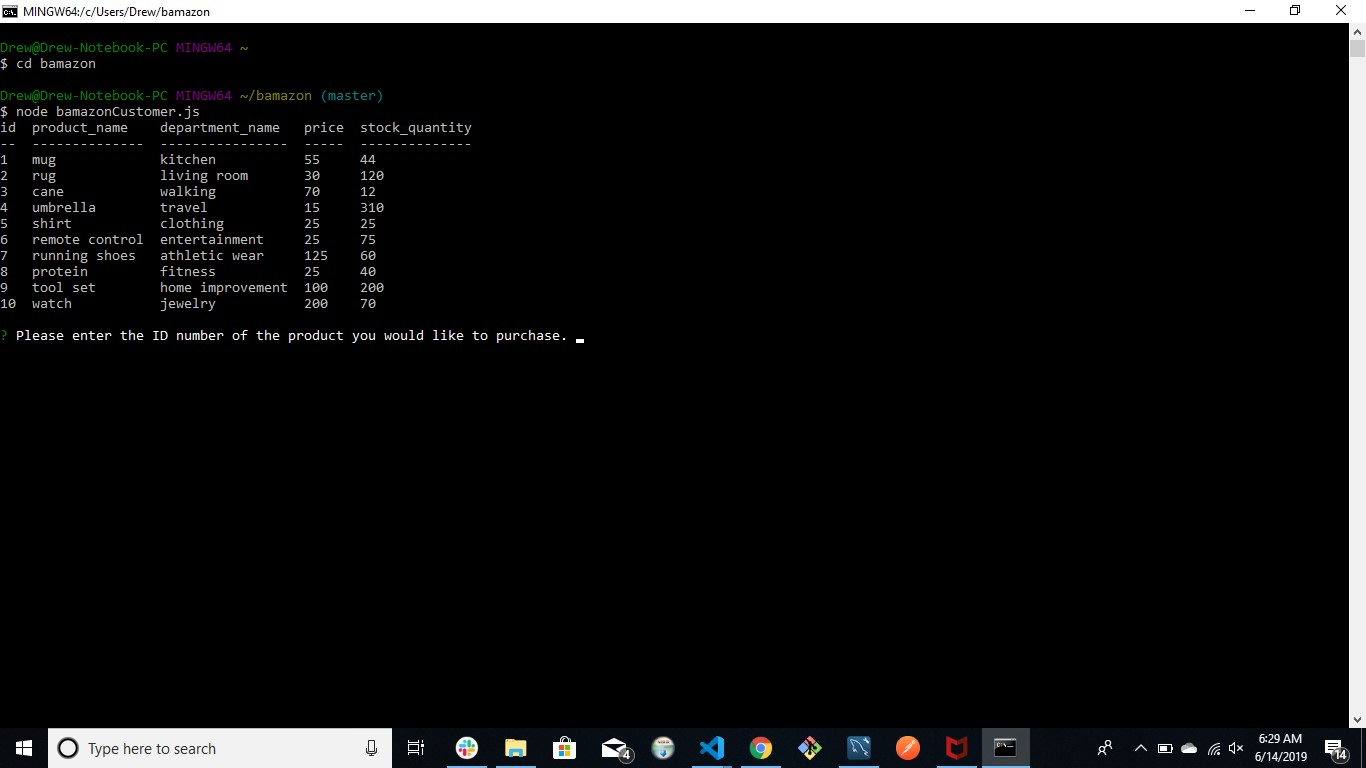
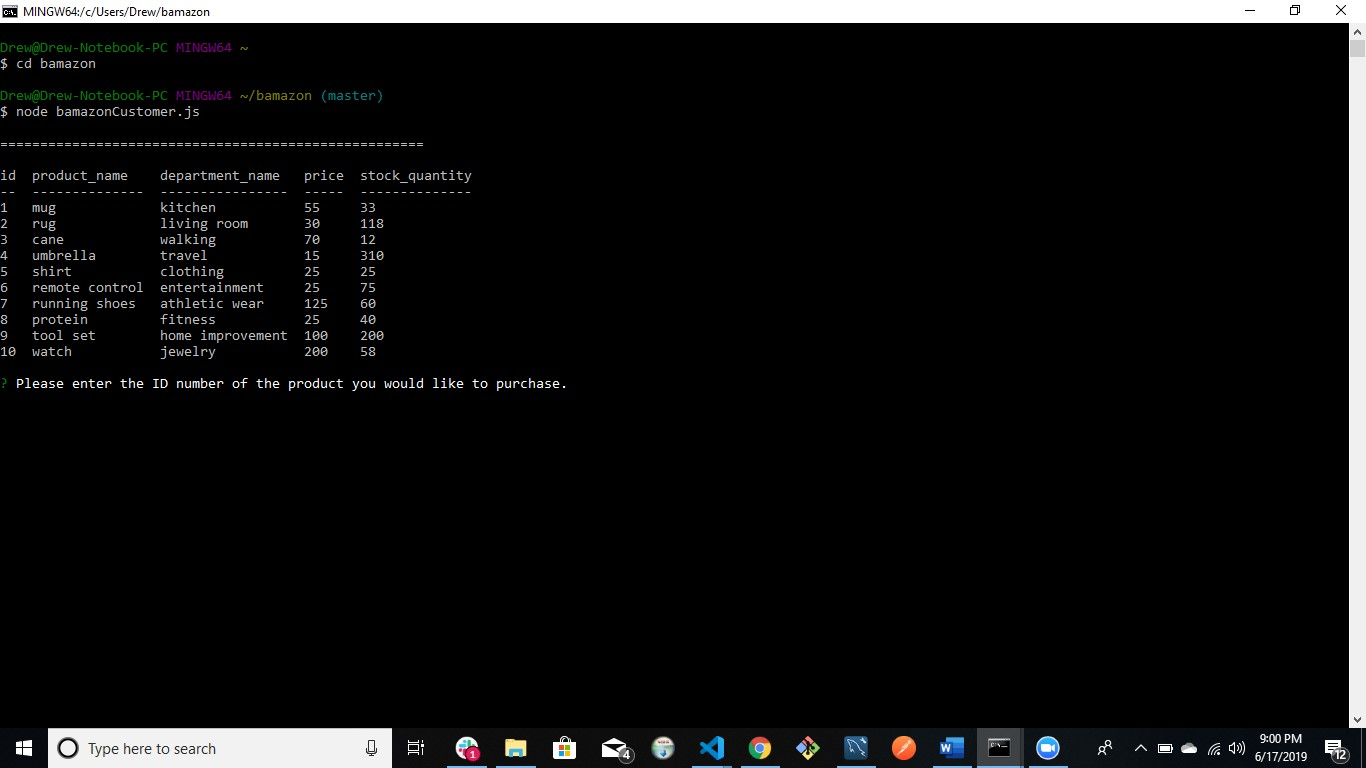
fixed sql updating and total price

diff --git a/bamazonCustomer.js b/bamazonCustomer.js
@@ -38,6 +38,7 @@ connection.connect(function (err) {
 //print results to console
 function loadProducts() {
     //mysql query to read products in database
+    console.log("\n=====================================================\n")
     connection.query("SELECT * FROM products", function (err, res) {
         if (err) throw err;
         console.table(res)
@@ -94,39 +95,44 @@ function quantity(product) {
             }
         }).then(function (value) {
             //create var with parseInt to minimize bugs
-            if (value.quantity > product.stock_quantity) {
+            var quantity = parseInt(value.quantity);
+            if (quantity > product.stock_quantity) {
                 //if not enough inventory then tell user and rerun loadProducts function
                 console.log("Sorry! there is not enough inventory to fulfill this order. Please try again.");
                 //else, run makePurchase function
                 loadProducts();
             }
-            else {
-                makePurchase();
+            else  {
+                makePurchase(product, quantity);
             }
         });
 }
 
-//function to update database
-// function updateTable(value, productID) {
-//     if (value.quantity = productID.stock_quantity) {
+// //function to update database
+//  function updateTable(value, productID) {
+//      if (value.quantity = productID.stock_quantity) {
 //         var totalCost = productID.price * quantity;
 //         console.log("The total cost for " + quantity + " " + productID.product_name + " is " + totalCost + " Thank you!");
 //         connection.query("UPDATE products SET stock_quantity = stock_quantity - " + quantity + "WHERE item_id = " + productID);
 //     }
-// }
+//  }
 
 //function to make purchase
-function makePurchase() {
+function makePurchase(product, quantity) {
     //run sql query to update products table. Find out how to update query
 
-    connection.query("SELECT * FROM products", function (err, res) {
+    connection.query(
+        "UPDATE products SET stock_quantity = stock_quantity - ? WHERE id = ?",
+        [quantity, product.id],
+        function (err, res) {
         if (err) throw err;
-        console.table(res);
+       // console.table(res);
+       var price = product.price
         //inform user that purchase was successful and rerun loadProducts function
-        console.log("Your purchase was successful! Thanks for shopping!");
-        
-        // 	updateMySql();
-        
+       var totalPrice = price * quantity
+        console.log("Your purchase was successful! Your total cost is $" + totalPrice + " Thanks for shopping!");
+        console.log("Have a nice day!")
+        connection.end();
     })
 }
 

diff --git a/README.md b/README.md
@@ -40,13 +40,8 @@ If not, the app will say "Sorry! there is not enough inventory to fulfill this o
 
 ![notEnough](bamz3.jpg?raw=true "notEnough")
 
-However, if your store does have enough of the product, you should fulfill the customer's order.
-
+However, if your store does have enough of the product, you should fulfill the customer's order and show them the total price. 
 
 ![makePurchase](bamz4.jpg?raw=true "makePurchase")
 
-
-Issues: The following functionality is not complete.
-
-This means updating the SQL database to reflect the remaining quantity.
-Once the update goes through, show the customer the total cost of their purchase.
+A purchase will update the SQL database to reflect the remaining quantity.
